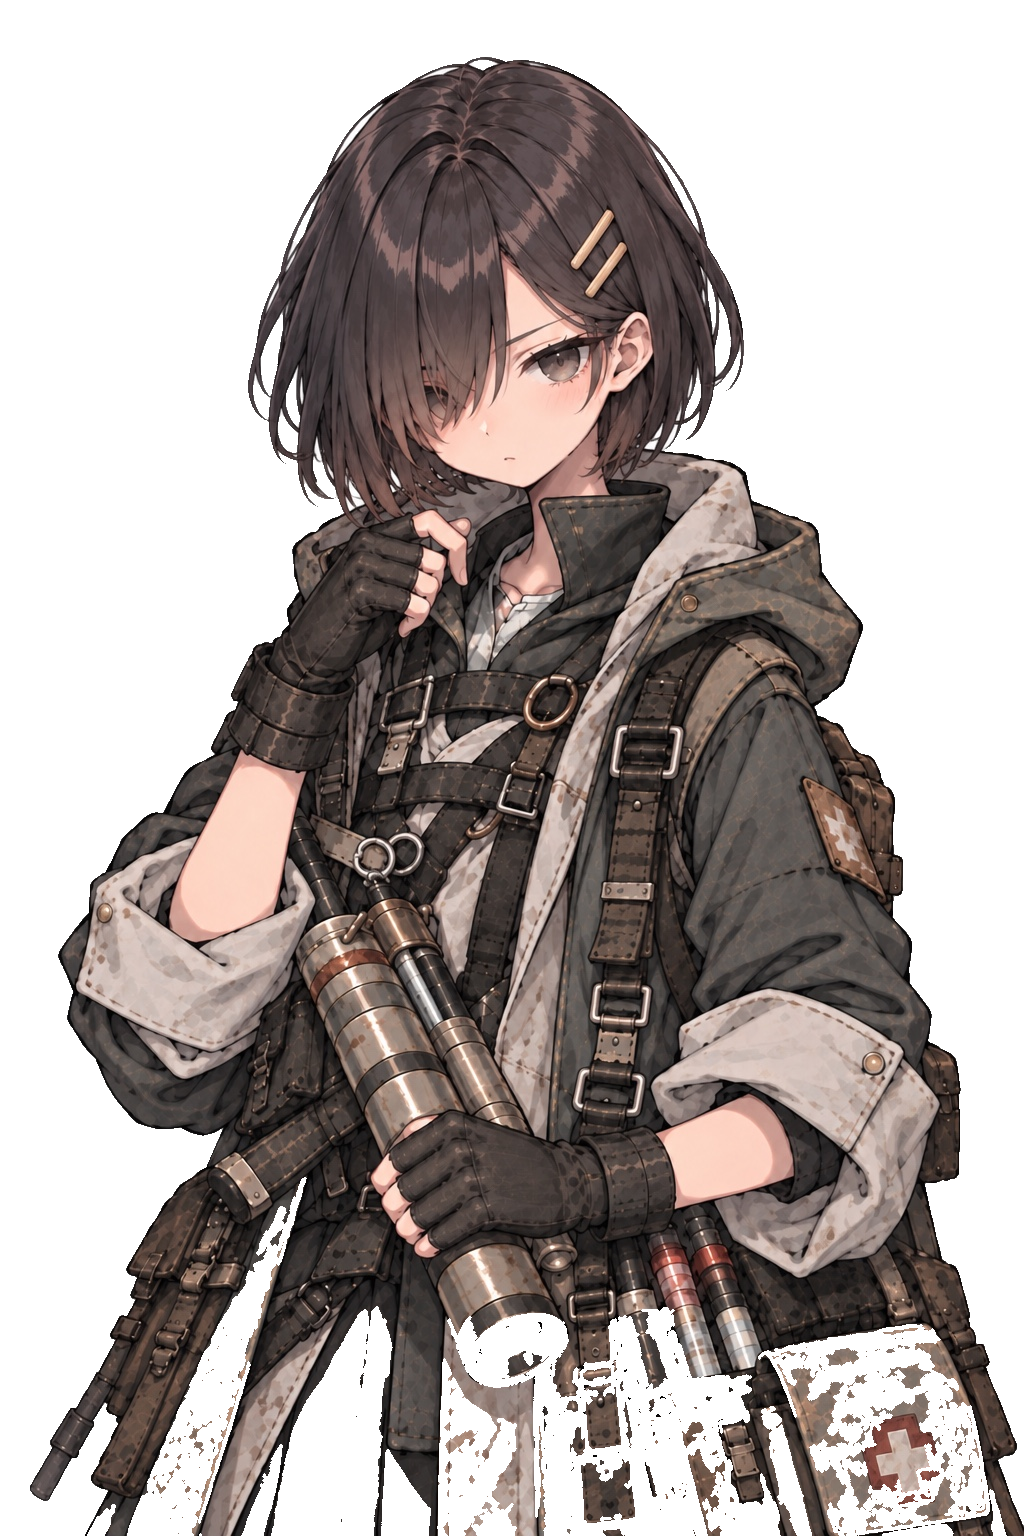
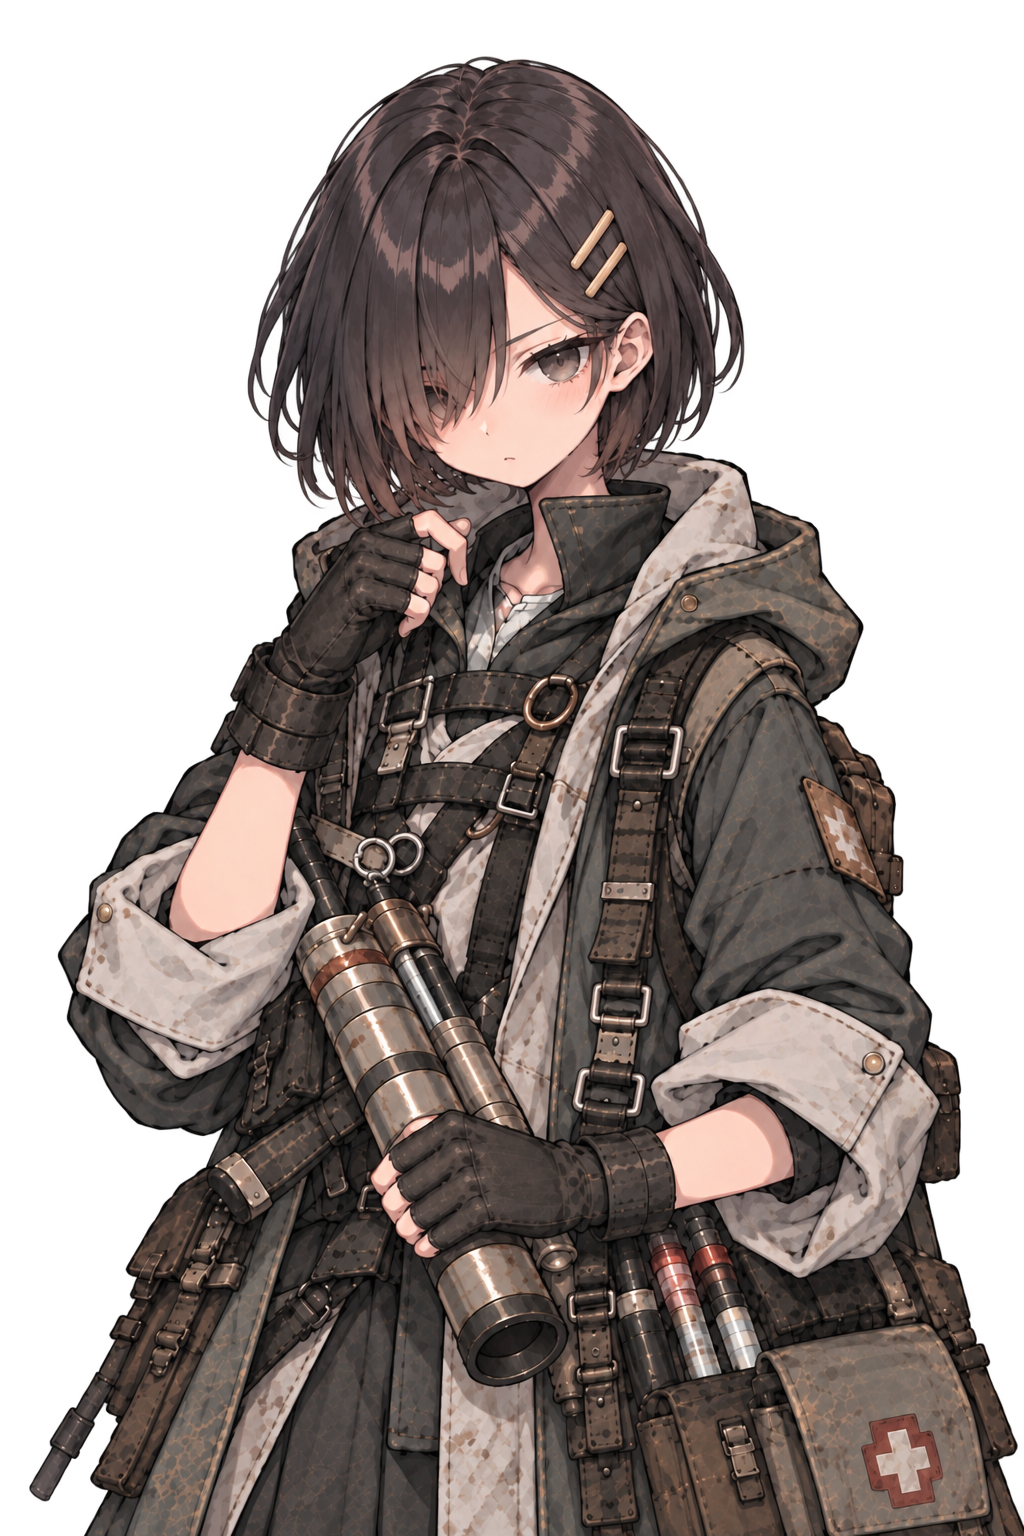
Google Drive提供の透過PNGに差し替え

Changed region(s): [[0.0938, 0.7812, 1.0, 1.0]]

diff --git a/docs/art/bustup_v0/README.md b/docs/art/bustup_v0/README.md
@@ -18,15 +18,15 @@
 
 ## 透過版
 
-上の画像は、今回添付されたJPEGの外周に接続する白背景と、人物の輪郭内に残っていた明らかな白背景の島を除去した、会話UI向けの暫定透過PNGです。人物内部の白い服・髪・ぬいぐるみなどは保持しています。元のJPEGは比較用に残しています。
+以下は、ユーザー提供のGoogle Drive内の透過PNGを画像内容で照合し、元のPNGバイナリを加工せずに格納したものです。5枚とも8bit RGBA（PNGのcolor type 6）で、アルファチャンネルを保持しています。人物内部の白い服・髪・ぬいぐるみなども元画像のままです。元のJPEGは比較用に残しています。
 
-| 人物 | ファイル | サイズ | SHA-256 |
+| 人物 | ファイル | サイズ | Drive側ファイル名 |
 |---|---|---:|---|
[5 lines of base64/hex data omitted]
+| ゴウ | [`gou.png`](./gou.png) | 1086×1448 | `F464254E-F66A-4090-91F1-7E32CD08911E.PNG` |
+| ツグミ | [`tsugumi.png`](./tsugumi.png) | 1024×1536 | `A2300A64-4BAB-401A-B969-0B19B86AD20F.PNG` |
+| ナギ | [`nagi.png`](./nagi.png) | 1086×1448 | `8EB7DCF0-C9F1-4B71-BDAB-F831488C38BC.PNG` |
+| ヒバナ | [`hibana.png`](./hibana.png) | 1086×1448 | `426076BB-E35B-4E3D-B168-D2ED1D262B7D.PNG` |
+| ゲンゾウ | [`genzou.png`](./genzou.png) | 1086×1448 | `150FA4BD-BC04-4349-98A9-6729678011BA.PNG` |
 
 ## 元生成画像
 
